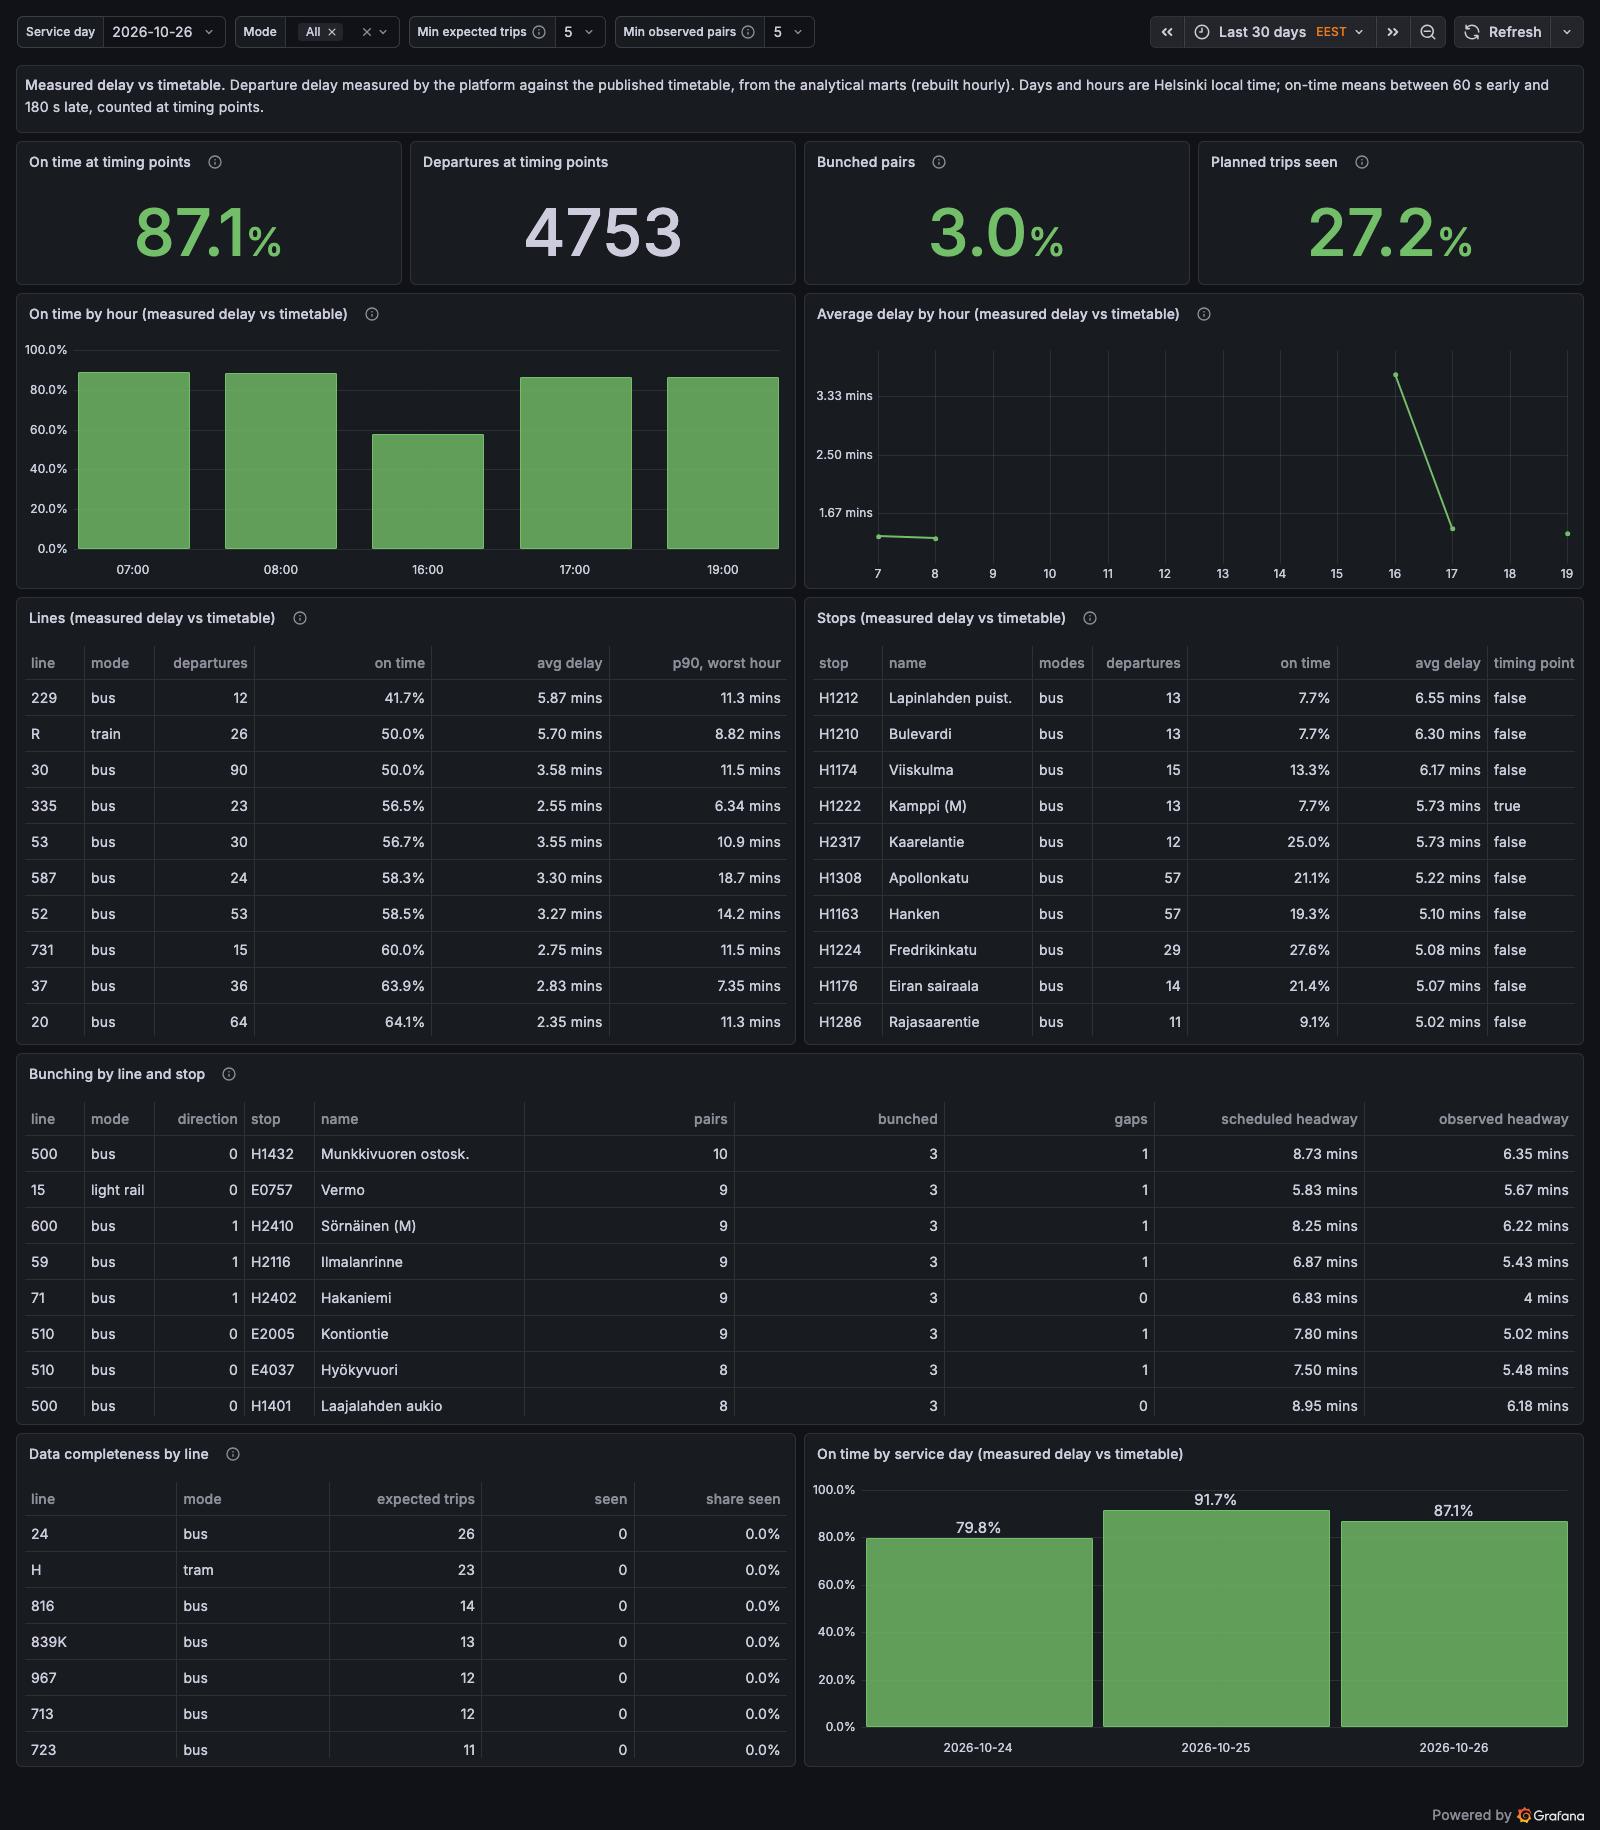
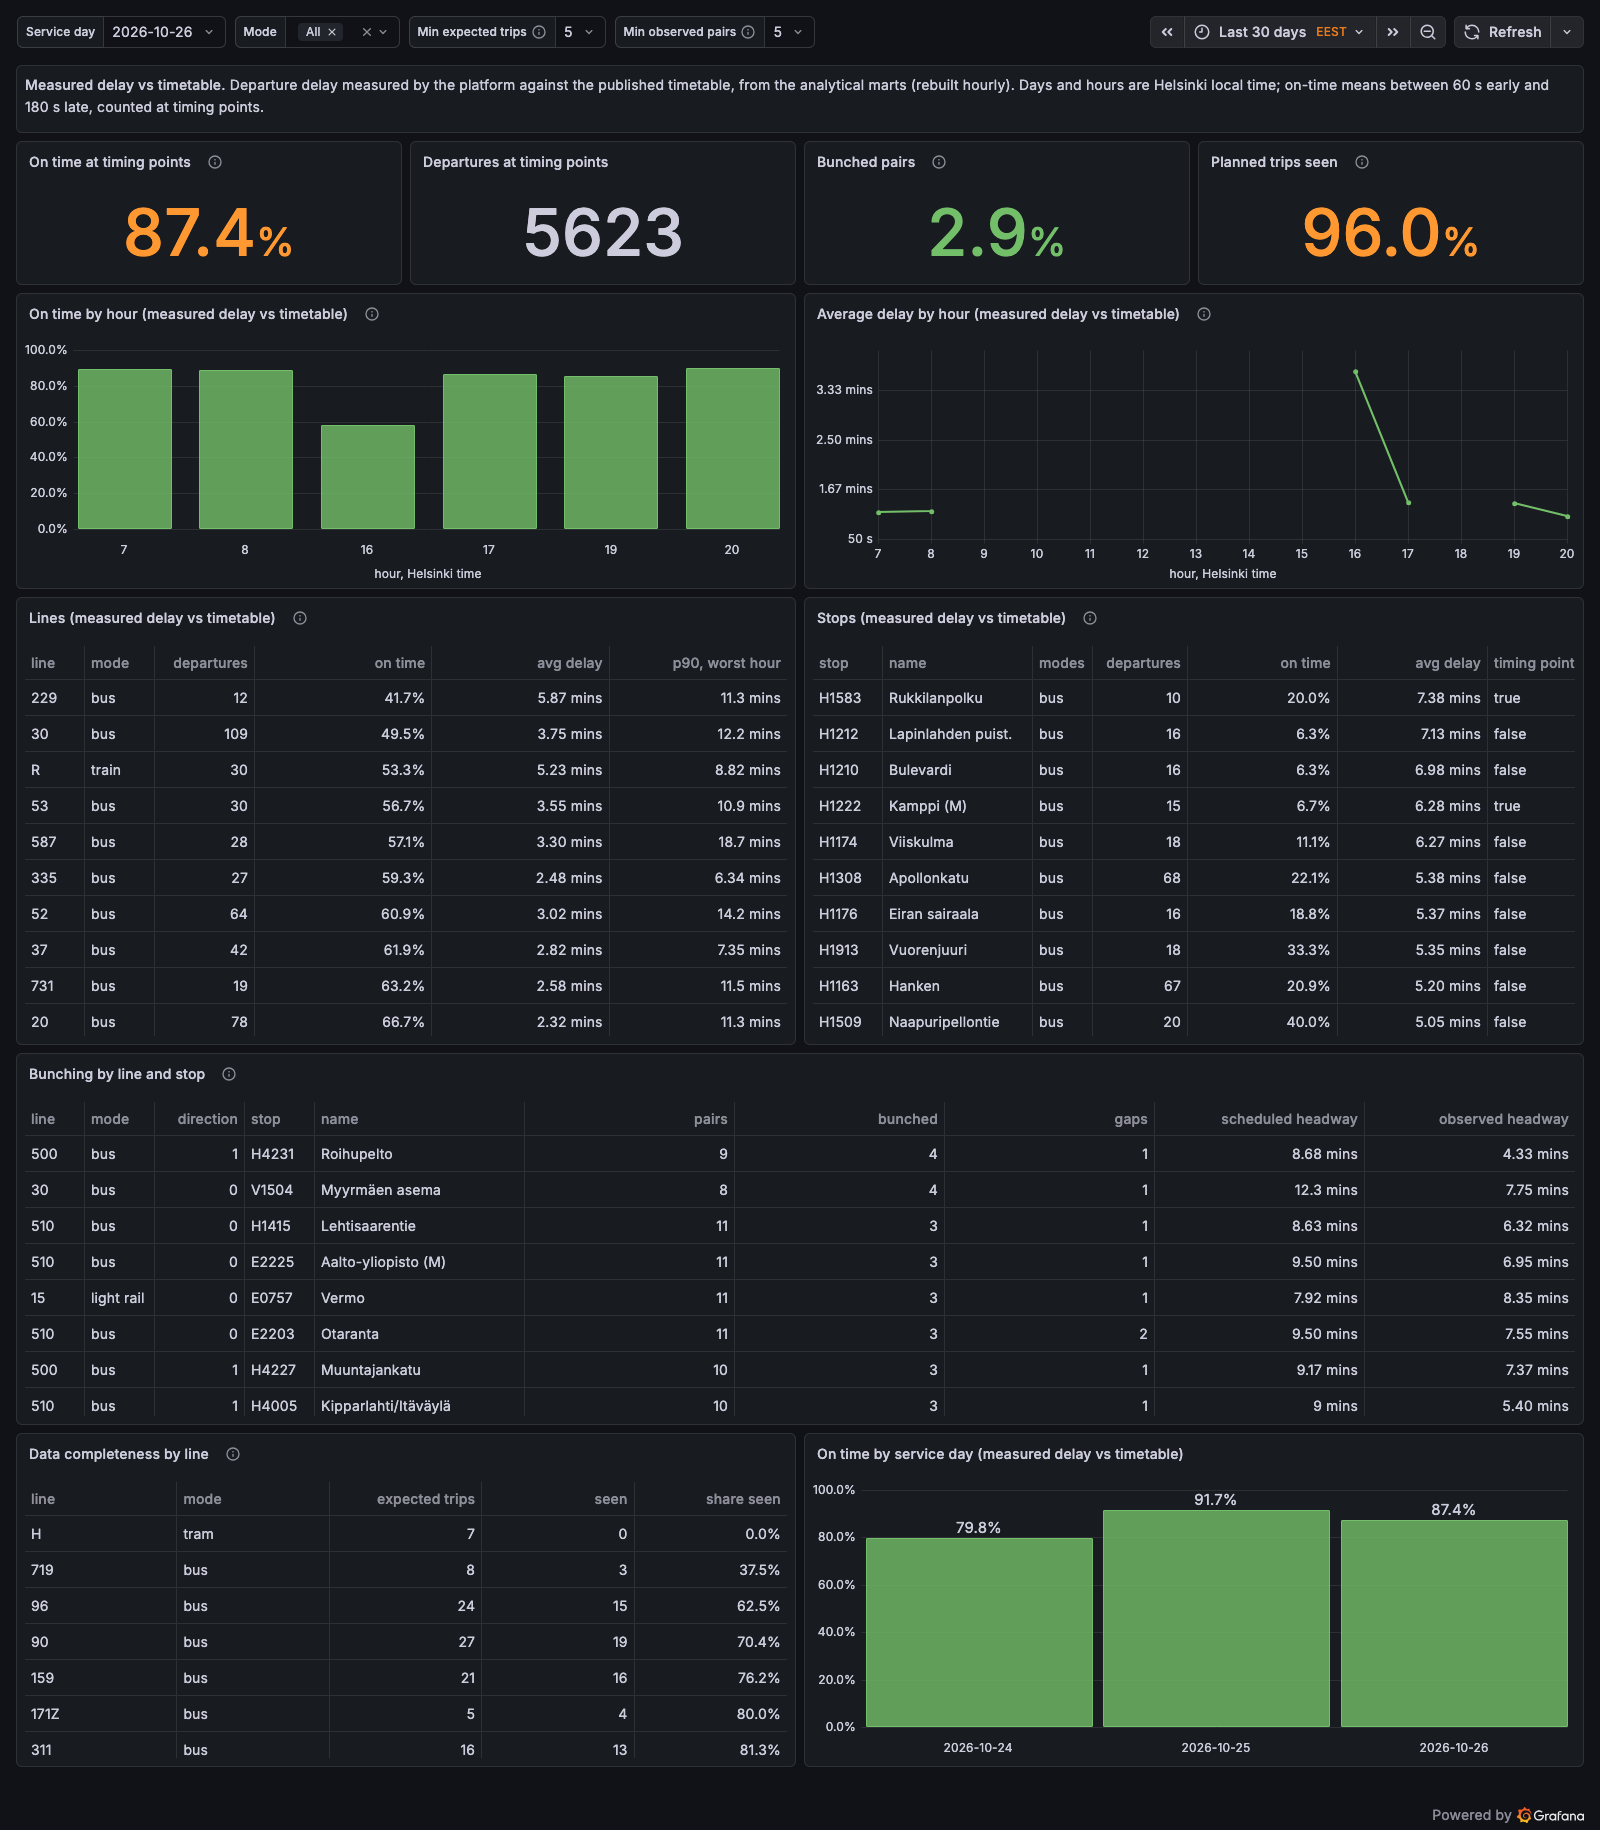
Retake the dashboard screenshots

diff --git a/docs/design_monitoring.md b/docs/design_monitoring.md
@@ -83,7 +83,7 @@ The lag rule is evaluated per consumer group, so the sink and the aggregator are
 
 ## Observed while building the dashboards
 
-The screenshots above are from a live run on Monday evening, 26 October, between 19:40 and 20:00 Helsinki time; *Punctuality* shows that day as far as it was recorded. In the *Pipeline health* screenshot, the lag of up to 140,000 messages and the stored latency of up to four minutes between 19:40 and 19:52 were measured under host throttling (macOS limited the CPU to 20% at the time): the consumers catching up after their start. They are not performance results. The observations below come from that run and from one on Sunday evening, 25 October.
+The screenshots above are from a live run on Monday evening, 26 October, between 20:37 and 20:53 Helsinki time. *Punctuality* shows that day as far as it was recorded: 07:28–08:30, 16:58–17:13 and from 19:40, with nothing at 18:00, when the platform was not running. Both consumers stayed within 2,000 messages of the end of the topic. The spike of stored latency and late events at 20:45 is one train unit, 90/6323, sending an hour of buffered positions at once (2,984 of them, up to 60 minutes late): the backlog behaviour described in [design_aggregation.md](design_aggregation.md#how-late-is-the-data). The observations below come from that run, from one earlier that evening and from one on Sunday evening, 25 October.
 
 - **A slow host shows up as lag.** Between 21:02 and 21:10 Helsinki time the development laptop was overloaded (load average up to 81, CPU limited to 74%). Under host throttling, decoding a batch of 5,000 messages took 3 seconds instead of 260 ms, and the sink fell up to 59,000 messages behind; these numbers describe the laptop and are not performance results. Once the load dropped it caught up in about a minute, at 85,000 messages that minute. The bump is visible in the lag and latency panels. The lag rule went to pending at 21:06:30 and back to normal at 21:10:30: four minutes above the threshold, one short of firing.
 - **One vehicle can dominate a line's average.** Commuter train line K led the list with an average of 24 minutes: one train unit stood still while still signed on to its 17:22 journey and reported 3.7 hours of delay. This is why the live panels show the median and p90 instead of the average. The measured delay in the marts is not affected (it uses departures from stops). The median has a limit, seen on Monday 26 October at 17:00 Helsinki time: commuter trains often run as two coupled units, and both units of one line Z train were signed on to the journey an hour earlier while running at full speed. They reported 85 minutes of delay and made up half of the line's vehicles in that direction, so even the median put line Z near the top. Line D above it was a single train of three coupled units on the 16:05 journey, at full speed and reporting 47 minutes of delay, the only vehicles on the line at that moment. A median protects against one wrong vehicle, not against half of a line or a whole one. Two changes followed. Delays are now taken per journey, so the coupled units of a train count once, and a vehicle reporting a journey that should have ended more than 15 minutes earlier is a suspect sign-on whose delay is left out and which is listed separately. Both trains above were caught by that rule.
